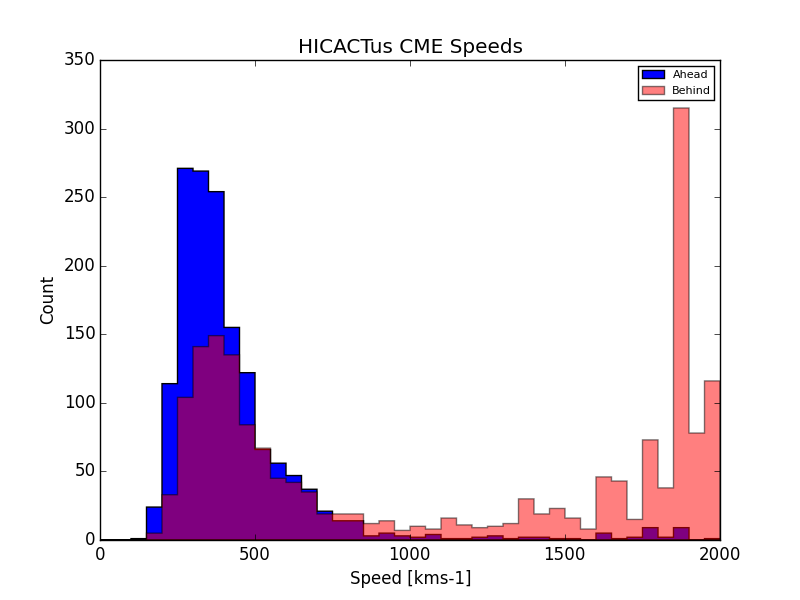
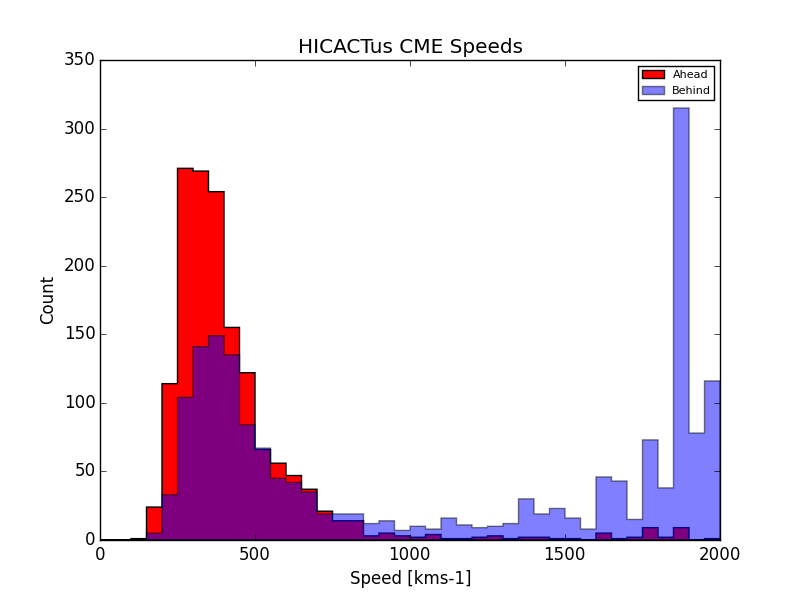
Updates to plots

diff --git a/catalogs.py b/catalogs.py
@@ -43,9 +43,9 @@ save(path=os.path.join(config.hicact_path,"hicact_b_speeds_hist"),verbose=True)
 
 # Histogram of STEREO-Ahead & Behind speeds
 plt.hist(v_a,bins=np.arange(0,max(v_a)+binwidth,binwidth),histtype='stepfilled',\
-	normed=False,color='b',label='Ahead')
+	normed=False,color='r',label='Ahead')
 plt.hist(v_b,bins=np.arange(0,max(v_b)+binwidth,binwidth),histtype='stepfilled',\
-	normed=False,color='r',alpha=0.5,label='Behind')
+	normed=False,color='b',alpha=0.5,label='Behind')
 plt.title("HICACTus CME Speeds")
 plt.xlabel("Speed [kms-1]")
 plt.ylabel("Count")
